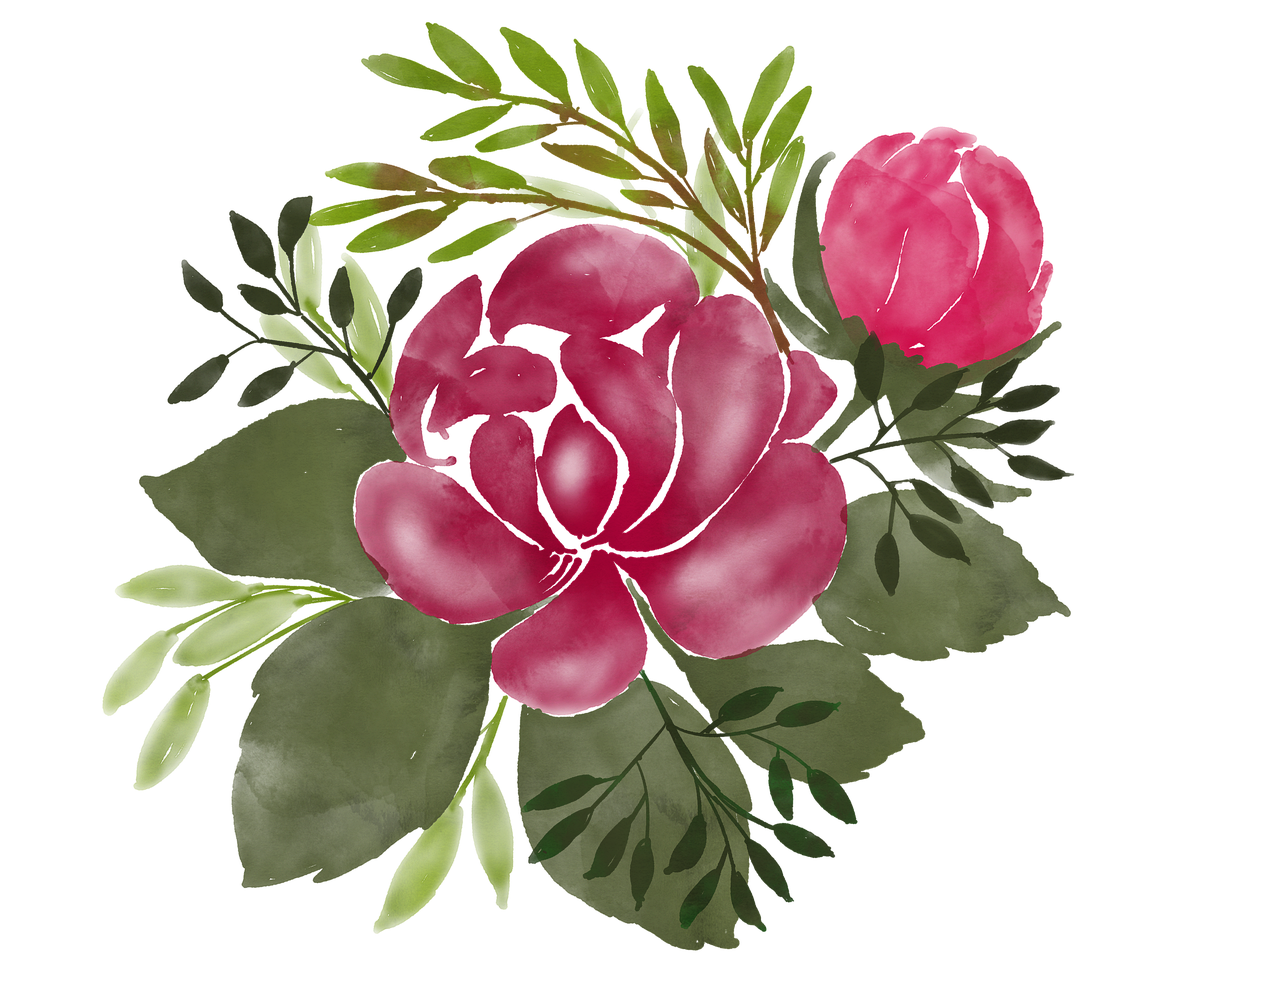
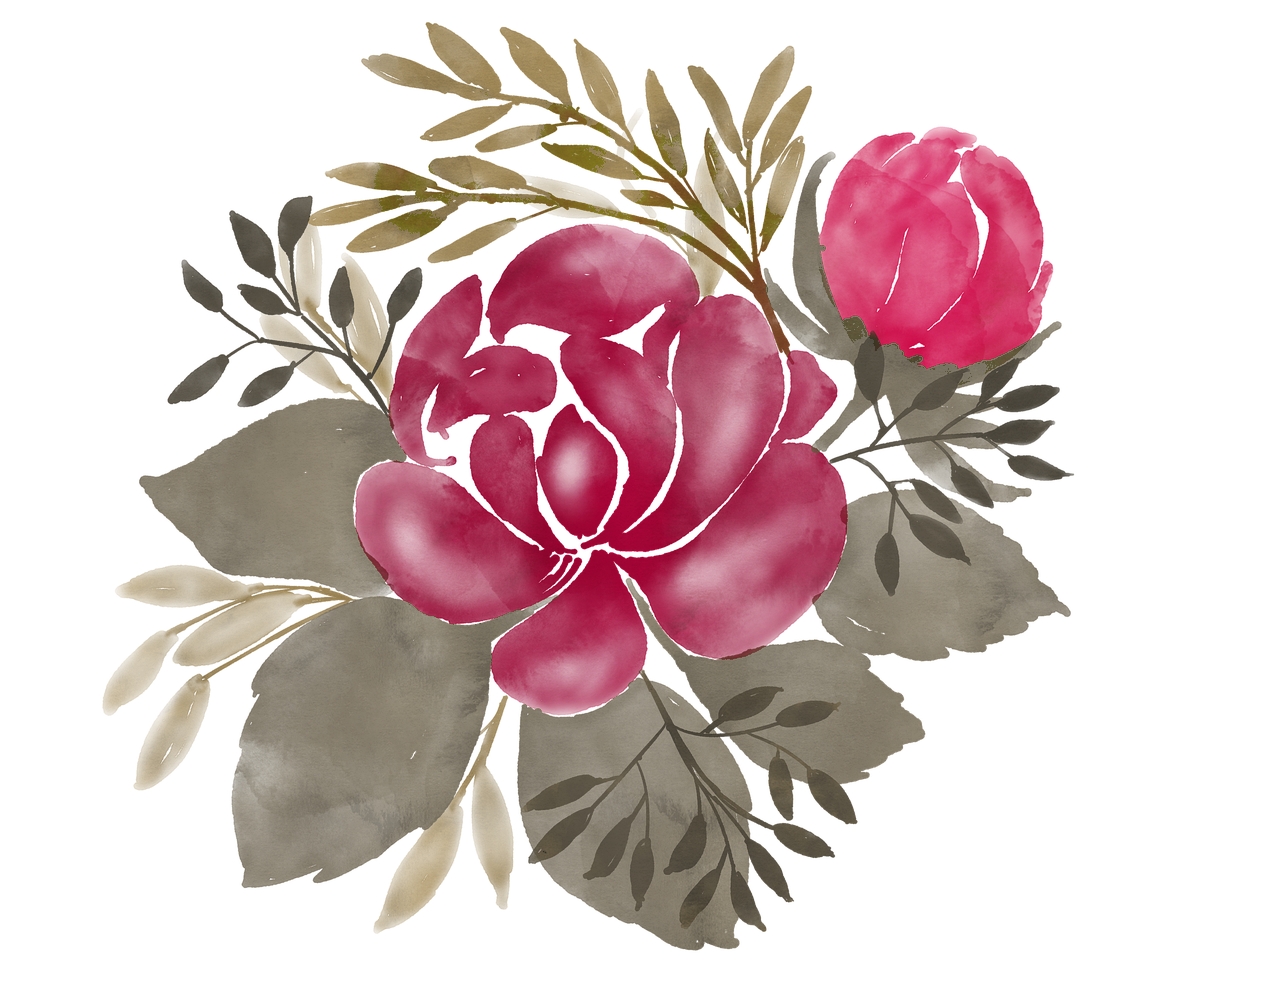
Fix card typography/layout, recolour florals, trim content
- Correct surname to Chin'ombe (was Chimombe) everywhere
- Fix real overlap between each script name and its caption (Great
  Vibes descenders run deeper than expected — widen the gap and drop
  the font size slightly on the card)
- Make the script names bolder with a stroke+fill technique (Great
  Vibes has no bold weight) on both the card canvas and the site
  headings (-webkit-text-stroke)
- Rebuild the card's date row: measure the actual text width so the
  flanking rules never cross the letters, and make "05" a genuinely
  large focal numeral (58px -> 128px)
- Recolour the floral artwork's greens to warm gold/taupe tones to
  match the Muted Plum / Champagne / Peach Coral / Ivory palette
  instead of clashing green foliage
- Fix the programme timeline: times were overlapping the timeline dot
  because the time column had no clearance from it
- Remove the Accommodation and Questions info cards
- Trim a sentence from the "Our Day" message per request
- Regenerate the static social-preview image from the updated card

Changed region(s): [[0.0625, 0.0303, 0.8438, 0.9707], [0.4688, 0.5763, 0.5, 0.6067]]

diff --git a/assets/js/main.js b/assets/js/main.js
@@ -272,71 +272,84 @@
     ctx.strokeStyle = "#B08A46"; ctx.lineWidth = 3; ctx.strokeRect(34, 34, w - 68, h - 68);
     ctx.strokeStyle = "#E4D2B0"; ctx.lineWidth = 1; ctx.strokeRect(50, 50, w - 100, h - 100);
     ctx.textAlign = "center";
+    ctx.lineJoin = "round";
+
+    function boldScript(text, x, y, font, fill, strokeW) {
+      ctx.font = font;
+      ctx.strokeStyle = fill; ctx.lineWidth = strokeW; ctx.strokeText(text, x, y);
+      ctx.fillStyle = fill; ctx.fillText(text, x, y);
+    }
+    function centeredRule(y, halfGap, len, color) {
+      ctx.strokeStyle = color; ctx.lineWidth = 1;
+      ctx.beginPath(); ctx.moveTo(w / 2 - halfGap - len, y); ctx.lineTo(w / 2 - halfGap, y); ctx.stroke();
+      ctx.beginPath(); ctx.moveTo(w / 2 + halfGap, y); ctx.lineTo(w / 2 + halfGap + len, y); ctx.stroke();
+    }
 
     ctx.fillStyle = "#8B7A6E"; ctx.font = '500 20px "Poppins", sans-serif';
     ctx.fillText("T O G E T H E R   W I T H   T H E I R   F A M I L I E S", w / 2, 108);
     ctx.font = 'italic 400 22px "Bodoni Moda", serif'; ctx.fillStyle = "#5A2444";
     ctx.fillText("You are warmly invited to the wedding of", w / 2, 145);
 
-    ctx.fillStyle = "#3E1730"; ctx.font = '400 118px "Great Vibes", cursive';
-    ctx.fillText("Nyasha", w / 2, 265);
-    ctx.font = '600 26px "Bodoni Moda", serif'; ctx.fillStyle = "#5A2444";
-    ctx.fillText("M A Z U R U S E", w / 2, 308);
+    boldScript("Nyasha", w / 2, 255, '400 104px "Great Vibes", cursive', "#3E1730", 3.6);
+    ctx.font = '600 24px "Bodoni Moda", serif'; ctx.fillStyle = "#5A2444";
+    ctx.fillText("M A Z U R U S E", w / 2, 343);
 
-    ctx.fillStyle = "#D97F55"; ctx.font = '400 66px "Great Vibes", cursive';
-    ctx.fillText("&", w / 2, 372);
+    boldScript("&", w / 2, 400, '400 56px "Great Vibes", cursive', "#D97F55", 2.4);
 
-    ctx.fillStyle = "#3E1730"; ctx.font = '400 118px "Great Vibes", cursive';
-    ctx.fillText("Watson", w / 2, 495);
-    ctx.font = '600 26px "Bodoni Moda", serif'; ctx.fillStyle = "#5A2444";
-    ctx.fillText("C H I M O M B E", w / 2, 538);
+    boldScript("Watson", w / 2, 520, '400 104px "Great Vibes", cursive', "#3E1730", 3.6);
+    ctx.font = '600 24px "Bodoni Moda", serif'; ctx.fillStyle = "#5A2444";
+    ctx.fillText("C H I N ' O M B E", w / 2, 608);
 
-    ctx.strokeStyle = "#E4D2B0"; ctx.beginPath(); ctx.moveTo(w / 2 - 150, 572); ctx.lineTo(w / 2 + 150, 572); ctx.stroke();
-    ctx.font = 'italic 400 23px "Bodoni Moda", serif'; ctx.fillStyle = "#5A2444";
-    ctx.fillText("As they celebrate their love", w / 2, 608);
-    ctx.fillText("and begin a new chapter together", w / 2, 637);
+    ctx.strokeStyle = "#E4D2B0"; ctx.beginPath(); ctx.moveTo(w / 2 - 140, 642); ctx.lineTo(w / 2 + 140, 642); ctx.stroke();
+    ctx.font = 'italic 400 21px "Bodoni Moda", serif'; ctx.fillStyle = "#5A2444";
+    ctx.fillText("As they celebrate their love", w / 2, 676);
+    ctx.fillText("and begin a new chapter together", w / 2, 702);
 
-    // date block
-    ctx.font = '500 22px "Poppins", sans-serif'; ctx.fillStyle = "#5A2444";
-    ctx.fillText("S A T U R D A Y", w / 2 - 245, 700);
-    ctx.fillText("D E C E M B E R   2 0 2 6", w / 2 + 235, 700);
-    ctx.strokeStyle = "#D97F55"; ctx.beginPath(); ctx.moveTo(w / 2 - 385, 693); ctx.lineTo(w / 2 - 320, 693); ctx.stroke();
-    ctx.beginPath(); ctx.moveTo(w / 2 + 320, 693); ctx.lineTo(w / 2 + 385, 693); ctx.stroke();
-    ctx.fillStyle = "#D97F55"; ctx.font = '600 58px "Bodoni Moda", serif';
-    ctx.fillText("05", w / 2, 768);
+    // date block — width of the date line is measured so the flanking rules never cross the text
+    ctx.font = '500 19px "Poppins", sans-serif';
+    ctx.letterSpacing = "2px";
+    var dateLine = "SATURDAY   ·   DECEMBER 2026";
+    var dateW = ctx.measureText(dateLine).width;
+    ctx.fillStyle = "#5A2444";
+    ctx.fillText(dateLine, w / 2, 754);
+    centeredRule(748, dateW / 2 + 24, 60, "#D97F55");
+    ctx.letterSpacing = "0px";
 
-    ctx.fillStyle = "#5A2444"; ctx.font = '600 25px "Bodoni Moda", serif';
-    ctx.fillText("COLNE VALLEY NATURE RESERVE PARK", w / 2, 828);
-    ctx.fillStyle = "#8B7A6E"; ctx.font = '400 19px "Poppins", sans-serif';
-    ctx.fillText("7 Bay Noakes, Colne Valley, Chisipite,", w / 2, 858);
-    ctx.fillText("Harare, Zimbabwe", w / 2, 882);
+    ctx.fillStyle = "#D97F55"; ctx.font = '600 128px "Bodoni Moda", serif';
+    ctx.fillText("05", w / 2, 872);
 
-    ctx.strokeStyle = "#E4D2B0"; ctx.beginPath(); ctx.moveTo(w / 2 - 150, 910); ctx.lineTo(w / 2 + 150, 910); ctx.stroke();
+    ctx.fillStyle = "#5A2444"; ctx.font = '600 24px "Bodoni Moda", serif';
+    ctx.fillText("COLNE VALLEY NATURE RESERVE PARK", w / 2, 928);
+    ctx.fillStyle = "#8B7A6E"; ctx.font = '400 18px "Poppins", sans-serif';
+    ctx.fillText("7 Bay Noakes, Colne Valley, Chisipite,", w / 2, 956);
+    ctx.fillText("Harare, Zimbabwe", w / 2, 978);
 
-    ctx.fillStyle = "#5A2444"; ctx.font = 'italic 400 23px "Bodoni Moda", serif';
-    ctx.fillText('"Above all, love each other deeply,', w / 2, 944);
-    ctx.fillText("because love covers over a multitude of sins.\"", w / 2, 972);
-    ctx.font = '600 17px "Poppins", sans-serif'; ctx.fillStyle = "#8B7A6E";
-    ctx.fillText("1   P E T E R   4 : 8", w / 2, 1000);
+    ctx.strokeStyle = "#E4D2B0"; ctx.beginPath(); ctx.moveTo(w / 2 - 140, 1002); ctx.lineTo(w / 2 + 140, 1002); ctx.stroke();
+
+    ctx.fillStyle = "#5A2444"; ctx.font = 'italic 400 20px "Bodoni Moda", serif';
+    ctx.fillText('"Above all, love each other deeply,', w / 2, 1032);
+    ctx.fillText("because love covers over a multitude of sins.\"", w / 2, 1056);
+    ctx.font = '600 15px "Poppins", sans-serif'; ctx.fillStyle = "#8B7A6E";
+    ctx.fillText("1   P E T E R   4 : 8", w / 2, 1080);
 
     if (guestName) {
-      ctx.font = '500 13px "Poppins", sans-serif'; ctx.fillStyle = "#B08A46";
-      ctx.fillText("R E S E R V E D   F O R", w / 2, 1030);
-      ctx.font = 'italic 400 25px "Bodoni Moda", serif'; ctx.fillStyle = "#3E1730";
-      ctx.fillText(guestName, w / 2, 1058);
+      ctx.font = '500 12px "Poppins", sans-serif'; ctx.fillStyle = "#B08A46";
+      ctx.fillText("R E S E R V E D   F O R", w / 2, 1102);
+      ctx.font = 'italic 400 22px "Bodoni Moda", serif'; ctx.fillStyle = "#3E1730";
+      ctx.fillText(guestName, w / 2, 1126);
     }
-    ctx.font = '500 14px "Poppins", sans-serif'; ctx.fillStyle = "#8B7A6E";
-    ctx.fillText("S T R I C T L Y   B Y   I N V I T A T I O N   O N L Y", w / 2, 1088);
+    ctx.font = '500 13px "Poppins", sans-serif'; ctx.fillStyle = "#8B7A6E";
+    ctx.fillText("S T R I C T L Y   B Y   I N V I T A T I O N   O N L Y", w / 2, 1148);
 
-    var qs = 150;
-    var qrTop = 1114;
+    var qs = 128;
+    var qrTop = 1166;
     if (qrImg) {
       ctx.drawImage(qrImg, w / 2 - qs / 2, qrTop, qs, qs);
     } else {
       ctx.strokeStyle = "#E4D2B0"; ctx.strokeRect(w / 2 - qs / 2, qrTop, qs, qs);
     }
-    ctx.fillStyle = "#8B7A6E"; ctx.font = '500 16px "Poppins", sans-serif';
-    ctx.fillText("SCAN FOR RSVP & WEDDING DETAILS", w / 2, qrTop + qs + 28);
+    ctx.fillStyle = "#8B7A6E"; ctx.font = '500 15px "Poppins", sans-serif';
+    ctx.fillText("SCAN FOR RSVP & WEDDING DETAILS", w / 2, qrTop + qs + 26);
   }
 
   var cachedQrImg = null, cachedFloralImg = null;

diff --git a/assets/css/style.css b/assets/css/style.css
@@ -63,7 +63,7 @@ section{ padding-block:96px; position:relative; }
 #cover.opened .cover-card{ transform:translateY(-24px) scale(.96); opacity:0; }
 .cover-frame{ position:absolute; inset:10px; border:1px solid var(--gold); opacity:.55; pointer-events:none; }
 .cover-eyebrow{ font-size:.68rem; letter-spacing:.3em; text-transform:uppercase; color:var(--text-muted); }
-.cover-names{ font-family:'Great Vibes',cursive; font-weight:400; font-size:clamp(3rem,13vw,4rem); line-height:1.3; margin-top:16px; color:var(--plum); }
+.cover-names{ font-family:'Great Vibes',cursive; font-weight:400; font-size:clamp(3rem,13vw,4rem); line-height:1.3; margin-top:16px; color:var(--plum); -webkit-text-stroke:.9px var(--plum); text-stroke:.9px var(--plum); }
 .cover-amp{ color:var(--coral); font-size:.8em; display:inline-block; margin:0 .22em; }
 .cover-date{ margin-top:18px; font-family:'Bodoni Moda',serif; font-size:1rem; letter-spacing:.08em; color:var(--plum-2); }
 .cover-venue{ margin-top:4px; font-size:.8rem; color:var(--text-muted); }
@@ -102,7 +102,7 @@ section{ padding-block:96px; position:relative; }
 /* hero */
 #home{ padding-top:70px; text-align:center; }
 .hero-eyebrow{ font-size:.72rem; letter-spacing:.34em; text-transform:uppercase; color:var(--gold); }
-.hero-names{ font-family:'Great Vibes',cursive; font-weight:400; font-size:clamp(4rem,15vw,7.5rem); line-height:1.25; margin-top:16px; color:var(--plum); }
+.hero-names{ font-family:'Great Vibes',cursive; font-weight:400; font-size:clamp(4rem,15vw,7.5rem); line-height:1.25; margin-top:16px; color:var(--plum); -webkit-text-stroke:1.1px var(--plum); text-stroke:1.1px var(--plum); }
 .hero-amp{ color:var(--coral); font-size:.7em; display:inline-block; margin:0 .18em; vertical-align:.05em; }
 .name-part{ display:inline-block; white-space:nowrap; }
 .hero-sub{ margin-top:18px; font-family:'Bodoni Moda',serif; font-size:1.05rem; color:var(--plum-2); letter-spacing:.04em; }
@@ -121,7 +121,7 @@ section{ padding-block:96px; position:relative; }
 .message-card{ background:var(--surface); border:1px solid var(--border); padding:52px 40px; text-align:center; box-shadow:var(--shadow-card); position:relative; }
 @media (max-width:640px){ .message-card{ padding:36px 22px; } }
 .message-card p{ font-size:1.08rem; color:var(--plum-2); font-family:'Bodoni Moda',serif; font-style:italic; font-weight:400; }
-.message-sign{ margin-top:26px; font-family:'Great Vibes',cursive; font-size:1.9rem; color:var(--coral); }
+.message-sign{ margin-top:26px; font-family:'Great Vibes',cursive; font-size:1.9rem; color:var(--coral); -webkit-text-stroke:.5px var(--coral); text-stroke:.5px var(--coral); }
 
 .info-grid{ display:grid; grid-template-columns:repeat(3,1fr); gap:20px; margin-top:48px; }
 @media (max-width:900px){ .info-grid{ grid-template-columns:repeat(2,1fr); } }
@@ -147,13 +147,13 @@ section{ padding-block:96px; position:relative; }
 
 .timeline{ position:relative; max-width:640px; margin:0 auto; }
 .timeline::before{ content:""; position:absolute; left:86px; top:6px; bottom:6px; width:1px; background:var(--champagne-line); }
-@media (max-width:520px){ .timeline::before{ left:58px; } }
+@media (max-width:520px){ .timeline::before{ left:64px; } }
 .t-item{ position:relative; display:flex; gap:26px; padding-bottom:38px; }
 .t-item:last-child{ padding-bottom:0; }
-.t-time{ width:86px; flex:none; text-align:right; font-family:'Bodoni Moda',serif; color:var(--plum); font-size:1.1rem; padding-top:2px; }
-@media (max-width:520px){ .t-time{ width:58px; font-size:.9rem; } }
-.t-dot{ position:absolute; left:82px; top:6px; width:9px; height:9px; border-radius:50%; background:var(--coral); box-shadow:0 0 0 4px var(--ivory); }
-@media (max-width:520px){ .t-dot{ left:54px; } }
+.t-time{ width:86px; flex:none; text-align:right; font-family:'Bodoni Moda',serif; color:var(--plum); font-size:1rem; padding-top:2px; padding-right:16px; white-space:nowrap; }
+@media (max-width:520px){ .t-time{ width:64px; font-size:.76rem; padding-right:10px; } }
+.t-dot{ position:absolute; left:82px; top:7px; width:9px; height:9px; border-radius:50%; background:var(--coral); box-shadow:0 0 0 4px var(--ivory); }
+@media (max-width:520px){ .t-dot{ left:60px; } }
 .t-body{ padding-left:34px; }
 @media (max-width:520px){ .t-body{ padding-left:26px; } }
 .t-title{ font-family:'Poppins',sans-serif; font-weight:500; font-size:.95rem; letter-spacing:.02em; color:var(--text); }
@@ -218,7 +218,7 @@ section{ padding-block:96px; position:relative; }
 .invite-only-note{ text-align:center; margin-top:32px; font-size:.78rem; letter-spacing:.06em; color:var(--text-muted); font-style:italic; }
 
 footer{ text-align:center; padding:70px 24px 50px; }
-.footer-names{ font-family:'Great Vibes',cursive; font-size:2.4rem; line-height:1.3; color:var(--plum); }
+.footer-names{ font-family:'Great Vibes',cursive; font-size:2.4rem; line-height:1.3; color:var(--plum); -webkit-text-stroke:.7px var(--plum); text-stroke:.7px var(--plum); }
 .footer-amp{ color:var(--coral); font-size:.75em; display:inline-block; margin:0 .18em; }
 .footer-note{ margin-top:10px; font-size:.76rem; color:var(--text-muted); letter-spacing:.04em; }
 

diff --git a/index.html b/index.html
@@ -4,7 +4,7 @@
 <meta charset="UTF-8">
 <meta name="viewport" content="width=device-width, initial-scale=1, viewport-fit=cover">
 <title>Nyasha &amp; Watson — 5 December 2026</title>
-<meta name="description" content="You are warmly invited to the wedding of Nyasha Mazuruse & Watson Chimombe — Saturday, 5 December 2026, Colne Valley Nature Reserve Park, Harare, Zimbabwe.">
+<meta name="description" content="You are warmly invited to the wedding of Nyasha Mazuruse & Watson Chin'ombe — Saturday, 5 December 2026, Colne Valley Nature Reserve Park, Harare, Zimbabwe.">
 <meta property="og:title" content="Nyasha & Watson — 5 December 2026">
 <meta property="og:description" content="You are warmly invited to our wedding at Colne Valley Nature Reserve Park, Harare.">
 <meta property="og:image" content="/assets/img/invitation-card.jpg">
@@ -84,7 +84,7 @@
       <h2>A Little Love Note</h2>
     </div>
     <div class="message-card">
-      <p>With grateful hearts and full of joy, we invite you to be part of the day we say "I do." Surrounded by the indigenous trees and birdsong of Colne Valley, we want the people who have shaped our story to stand with us as we begin the next one &mdash; together.</p>
+      <p>With grateful hearts and full of joy, we invite you to be part of the day we say "I do." We want the people who have shaped our story to stand with us as we begin the next one &mdash; together.</p>
       <p style="margin-top:18px;">Your presence, laughter and blessing are the greatest gifts we could ask for. We can't wait to celebrate with you.</p>
       <div class="message-sign">Nyasha &amp; Watson</div>
     </div>
@@ -97,8 +97,6 @@
       <div class="info-card"><div class="ic-label">Reception</div><div class="ic-value">From 11:00 AM</div><div class="ic-note">Immediately following the ceremony</div></div>
       <div class="info-card"><div class="ic-label">Dress Code</div><div class="ic-value">Formal &amp; Smart Casual</div></div>
       <div class="info-card"><div class="ic-label">Parking</div><div class="ic-value">Free &amp; Available</div><div class="ic-note">On-site at the reserve</div></div>
-      <div class="info-card"><div class="ic-label">Accommodation</div><div class="ic-value">—</div><div class="tbc">Details to follow</div></div>
-      <div class="info-card"><div class="ic-label">Questions?</div><div class="ic-value">—</div><div class="tbc">Contact details to follow</div></div>
     </div>
     <p class="invite-only-note">This celebration is strictly by invitation only.</p>
   </div>

diff --git a/README.md b/README.md
@@ -1,6 +1,6 @@
 # Nyasha & Watson — Wedding Invitation
 
-A static, mobile-first digital wedding invitation for Nyasha Mazuruse & Watson Chimombe — Saturday, 5 December 2026, Colne Valley Nature Reserve Park, Harare, Zimbabwe.
+A static, mobile-first digital wedding invitation for Nyasha Mazuruse & Watson Chin'ombe — Saturday, 5 December 2026, Colne Valley Nature Reserve Park, Harare, Zimbabwe.
 
 Plain HTML/CSS/JS, no build step, no backend. Self-hosted fonts (Bodoni Moda, Poppins, Great Vibes) and a vendored QR library — nothing loads from a third-party CDN at runtime.
 
